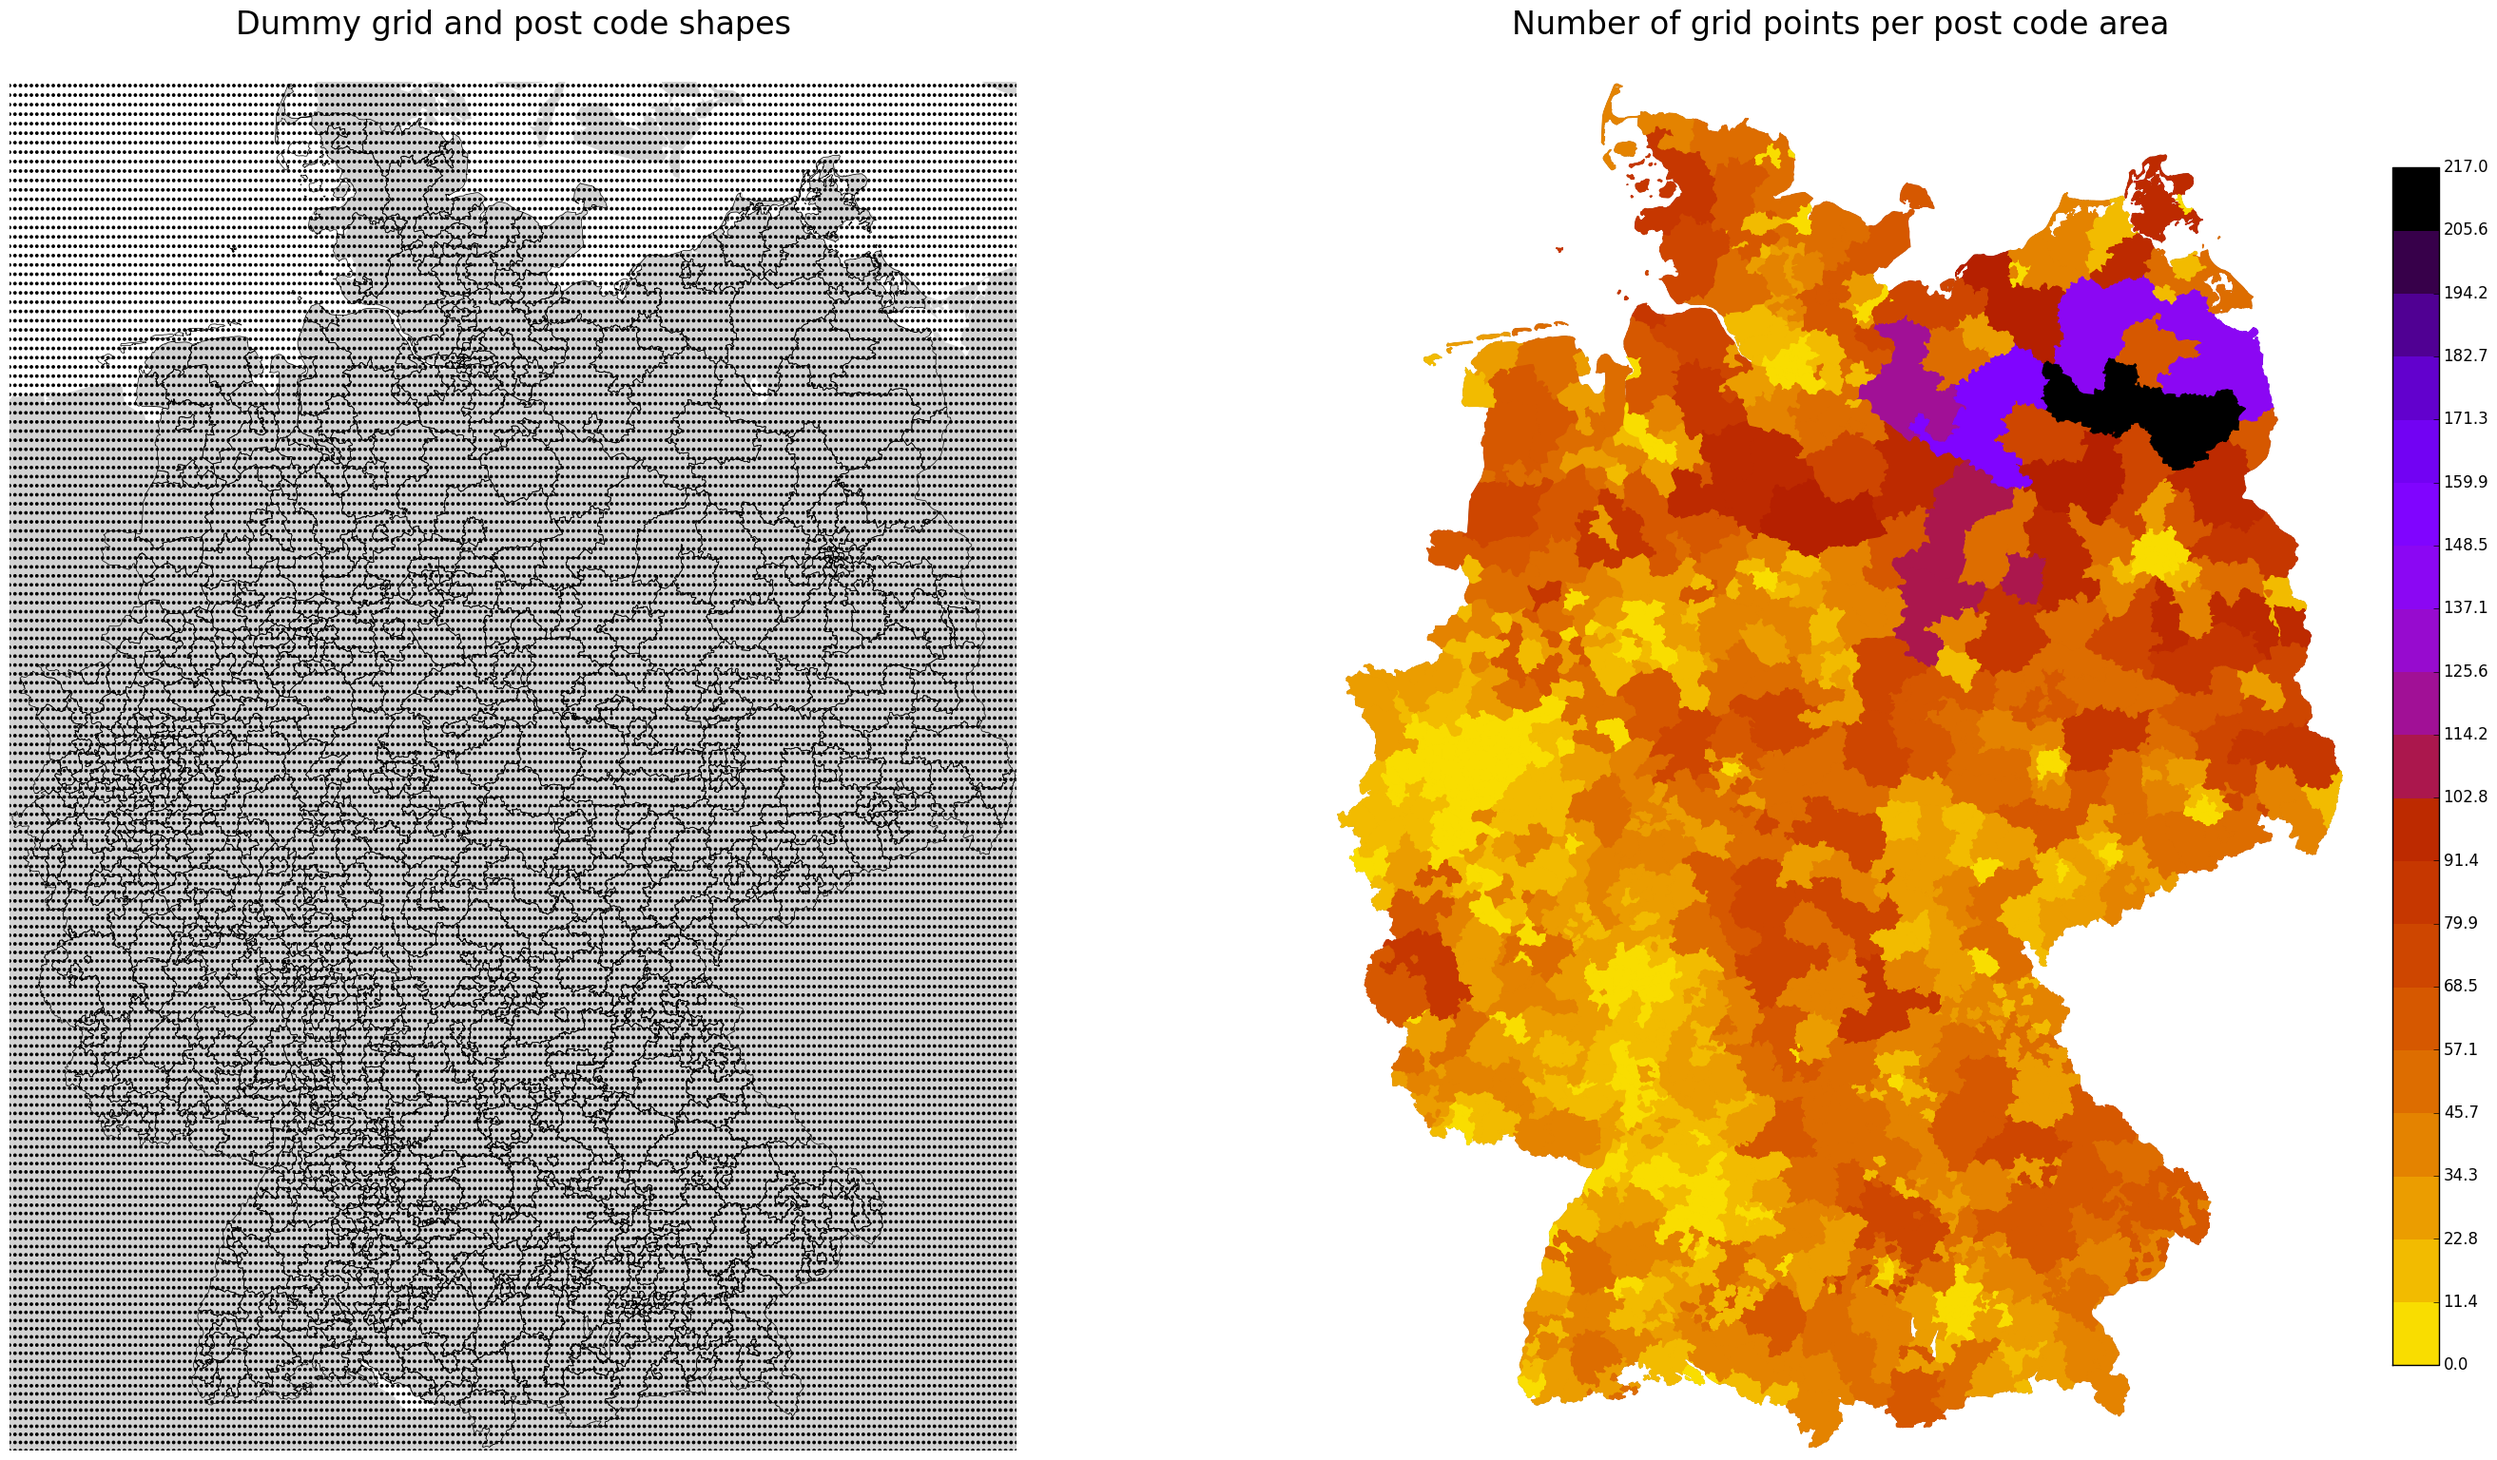
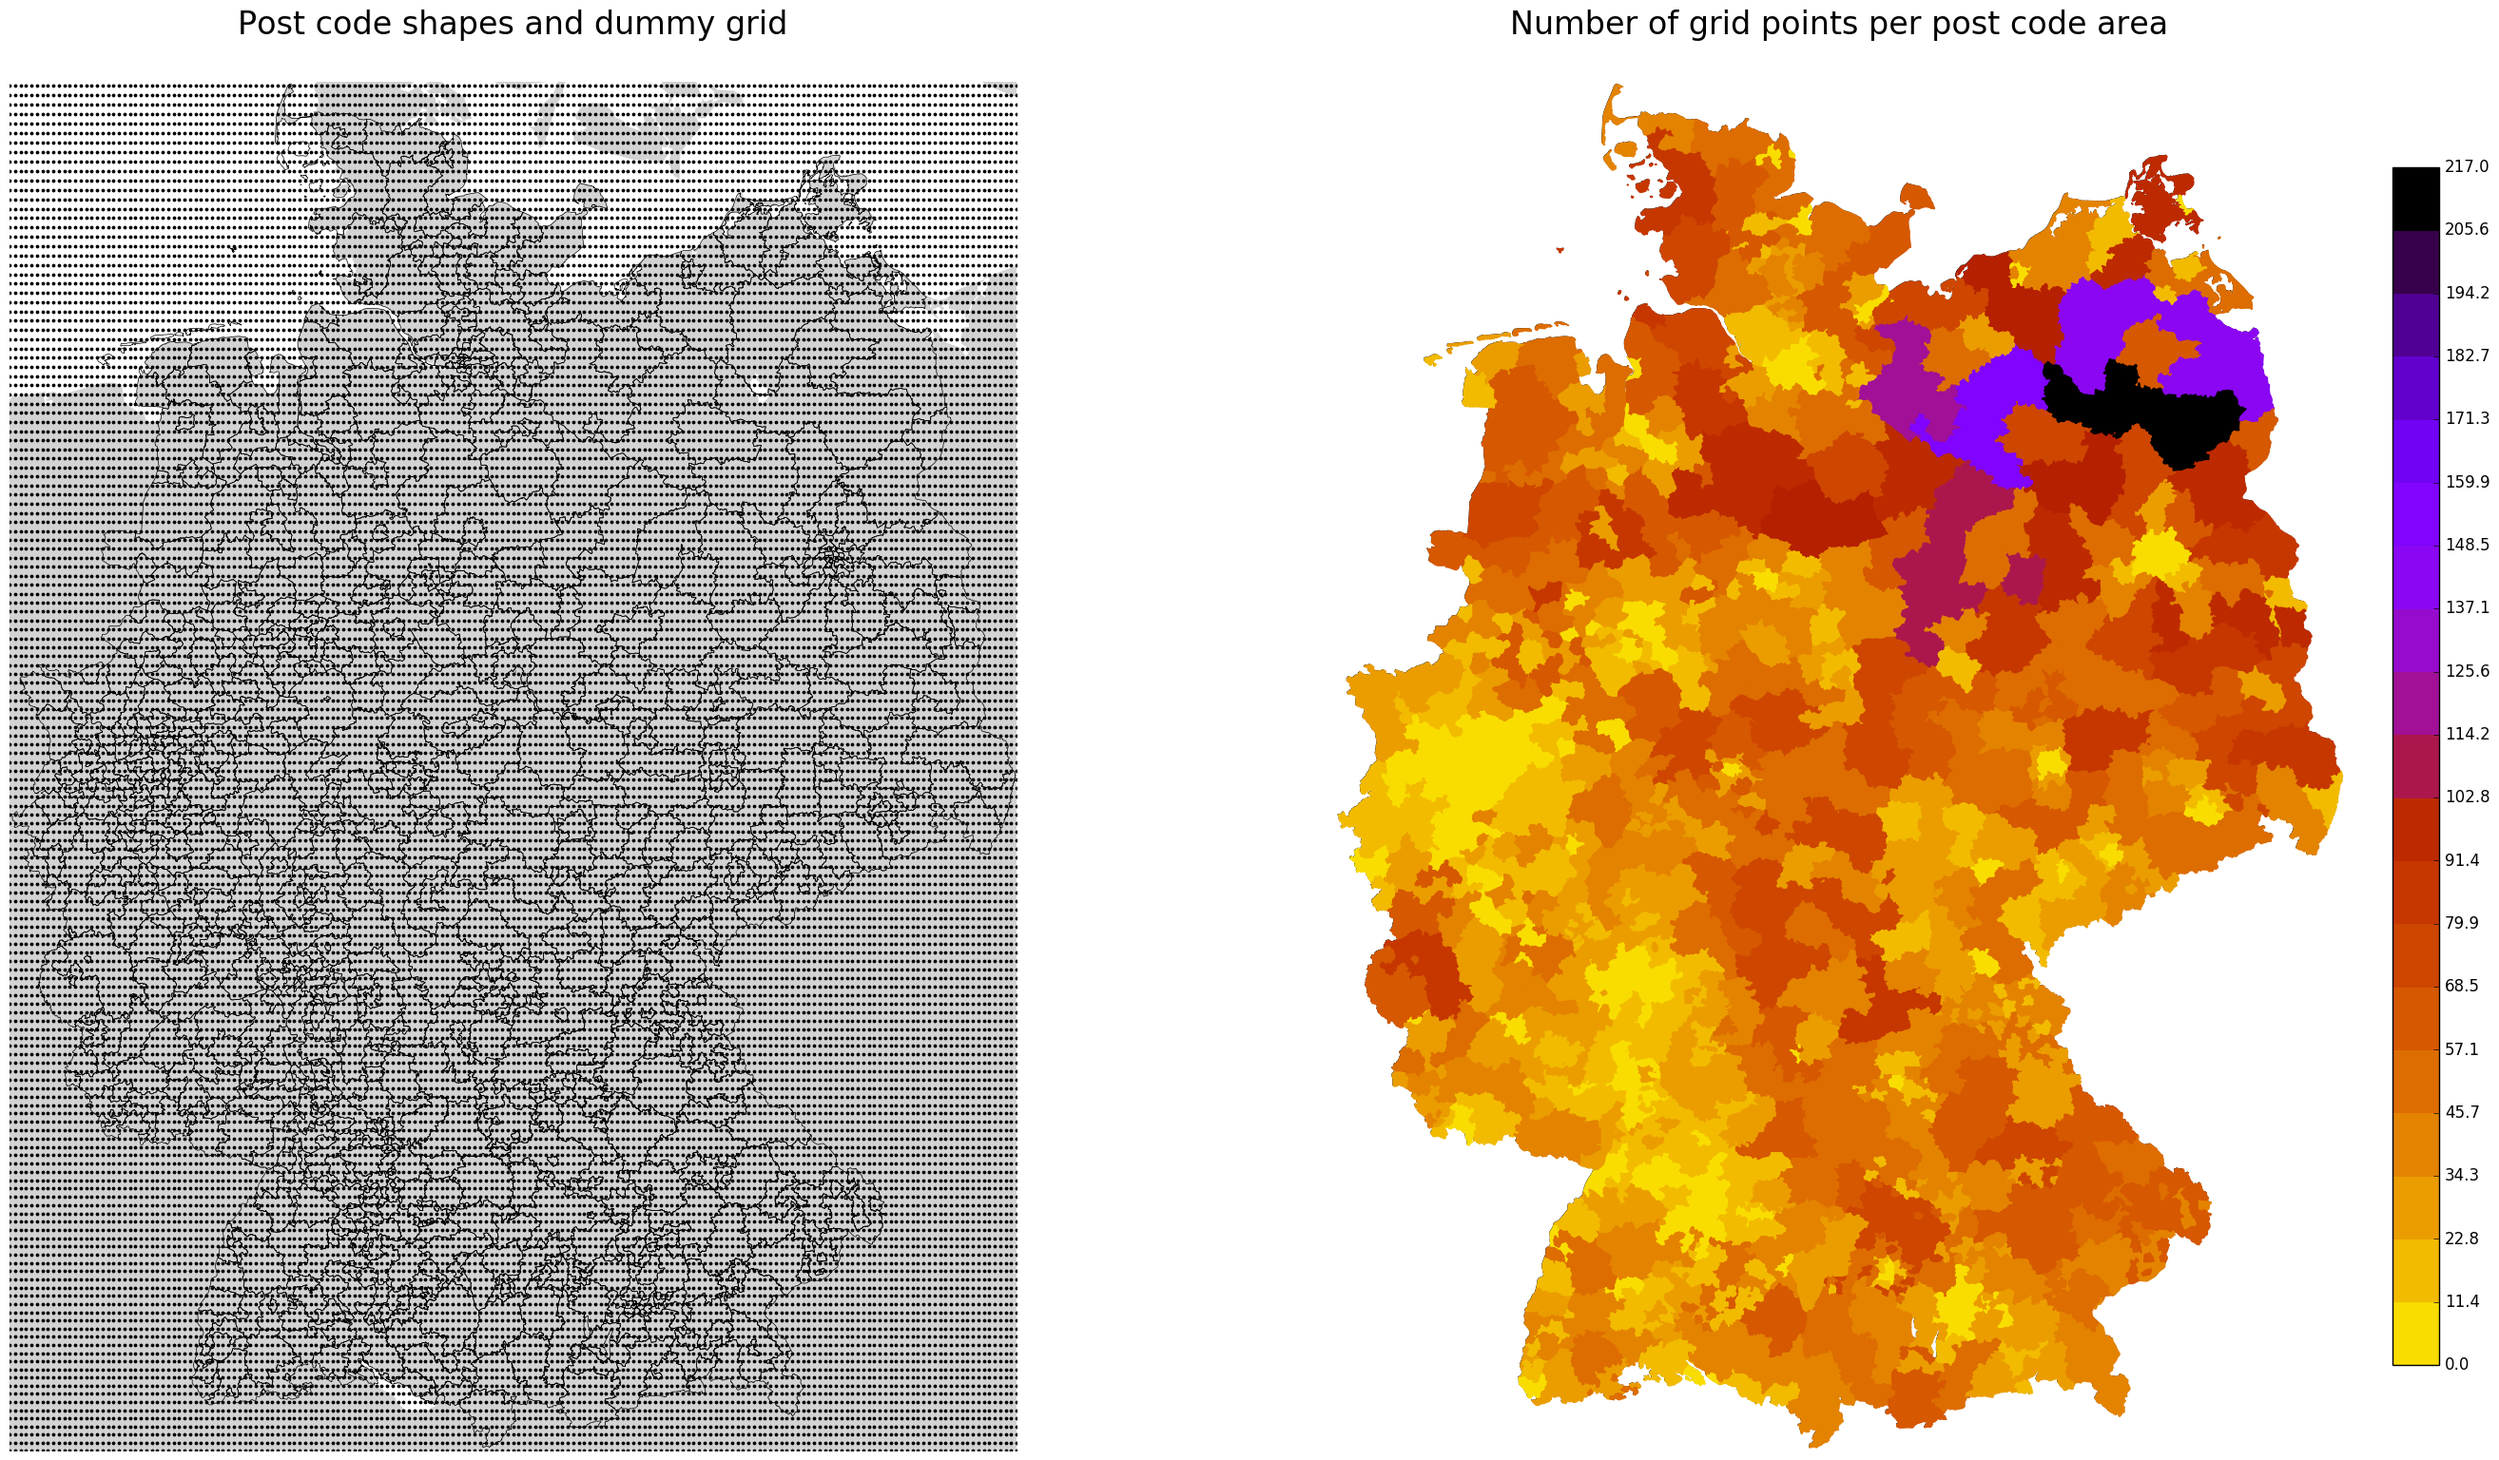
added docu, cleaned up libs

diff --git a/main.py b/main.py
@@ -1,37 +1,34 @@
 import numpy as np
 import pandas as pd
-import matplotlib.path as mplPath
 import matplotlib.pyplot as plt
 import matplotlib as mpl
 from mpl_toolkits.basemap import Basemap
 import shapefile
 import time
-from matplotlib.patches import Polygon
-from matplotlib.collections import PatchCollection
 import warnings
 
 ##################################
 # Define dummy grid data over Germany
 ##################################
-lat_start = 5
-lat_end = 15.1
-lon_start = 47.0
-lon_end = 55.1
+lat_start, lat_end = 5, 15.1
+lon_start, lon_end = 47.0, 55.1
 step = 0.05
-testpoint_grid = np.empty((0, 2), int)
+dummy_grid = np.empty((0, 2))
 for lat in np.arange(lat_start, lat_end, step):
     for lon in np.arange(lon_start, lon_end, step):
-        testpoint_grid = np.vstack((testpoint_grid, [lat, lon]))
-print('Created dummy grid:\t' + str(len(testpoint_grid)) + ' points')
+        dummy_grid = np.vstack((dummy_grid, [lat, lon]))
+print('Created dummy grid:\t %d points' % len(dummy_grid))
 
+##################################
 # Read shapefile of post code areas
+##################################
 file = "shape_data/plz-3stellig/plz-3stellig"
 # file = "shape_data/plz-2stellig/plz-2stellig"
 # file = "shape_data/plz-gebiete/plz-gebiete"
 sf = shapefile.Reader(file + '.shp')
 records = sf.records()
 shapes = sf.shapes()
-print('Imported post codes:\t' + str(len(records)) + ' shapes')
+print('Imported post codes:\t %d shapes' % len(records))
 
 ##################################
 # use matplotlib for counting grid points within post code area polygon
@@ -40,14 +37,14 @@ print('Start intersecting pc shapes with grid data...')
 start_time = time.time()
 pc_size = {}
 for i in range(0, len(records)):
-    path = mplPath.Path(shapes[i].points)
+    path = mpl.path.Path(shapes[i].points)
     pc = records[i][0]
     ext = path.get_extents()
-    subset_points = testpoint_grid[
-        (testpoint_grid[:, 0] >= (ext.extents[0] - 0.01)) &
-        (testpoint_grid[:, 0] <= (ext.extents[2] + 0.01)) &
-        (testpoint_grid[:, 1] >= (ext.extents[1] - 0.01)) &
-        (testpoint_grid[:, 1] <= (ext.extents[3] + 0.01))]
+    subset_points = dummy_grid[
+        (dummy_grid[:, 0] >= (ext.extents[0] - 0.01)) &
+        (dummy_grid[:, 0] <= (ext.extents[2] + 0.01)) &
+        (dummy_grid[:, 1] >= (ext.extents[1] - 0.01)) &
+        (dummy_grid[:, 1] <= (ext.extents[3] + 0.01))]
     points_within_pc = path.contains_points(subset_points)
     pc_size[pc] = len(subset_points[points_within_pc])
 
@@ -63,7 +60,7 @@ start_time = time.time()
 fig = plt.figure(figsize=(33, 18))
 bot, top, left, right = 5.85, 15.05, 47.25, 55.07
 ax = fig.add_subplot(121, axisbg='w', frame_on=False)
-ax.set_title('Dummy grid and post code shapes', fontsize=24, y=1.03)
+ax.set_title('Post code shapes and dummy grid', fontsize=24, y=1.03)
 m = Basemap(projection='merc', resolution='i',          # res: l, i, h
             llcrnrlat=left, llcrnrlon=bot,
             urcrnrlat=right, urcrnrlon=top)
@@ -73,7 +70,7 @@ m.fillcontinents(color='lightgray')
 m.readshapefile(file, 'units', color='black')
 
 # Add grid points to plot
-x, y = m(testpoint_grid[:, 0], testpoint_grid[:, 1])
+x, y = m(dummy_grid[:, 0], dummy_grid[:, 1])
 m.scatter(x, y, color='black', s=3, zorder=4)
 
 ##################################
@@ -100,8 +97,8 @@ for record, shape in zip(m.units_info, m.units):
     else:
         color = scheme[pc_size_df.ix[postcode]['bin']]
 
-    patches = [Polygon(np.array(shape), True)]
-    pc = PatchCollection(patches, zorder=2)
+    patches = [mpl.patches.Polygon(np.array(shape), True)]
+    pc = mpl.collections.PatchCollection(patches, zorder=2)
     pc.set_facecolor(color)
     pc.set_edgecolor(color)
     ax2.add_collection(pc)

diff --git a/README.md b/README.md
@@ -1,8 +1,20 @@
 # intersect-shapes-grid
 
 ### Description
+Demo code for:
+- intersecting shapes/polygons with grid data
+- visualizing the results
+in Python (without PostGIS or other GIS software).
+
+For intersecting only matplotlib standard functionality was used. Shapely lib was also tested, but turned out to be slower.
+Intersecting here just means counting the number of grid points within a polygon.
+
+In this example only dummy grid data and 3-digit post code shapes were used.
+Post code shapes with full resolution are also included in the repo.
+Instead of the used regular dummy grid data each other geo referenced point data can easily be implemented.
 
 ### Result
-![Alt text](result.png?raw=true "Title")
+![Alt text](result.png?raw=true "Result")
 
-### Source post code data
+### Source shape data
+http://www.suche-postleitzahl.org/downloads
